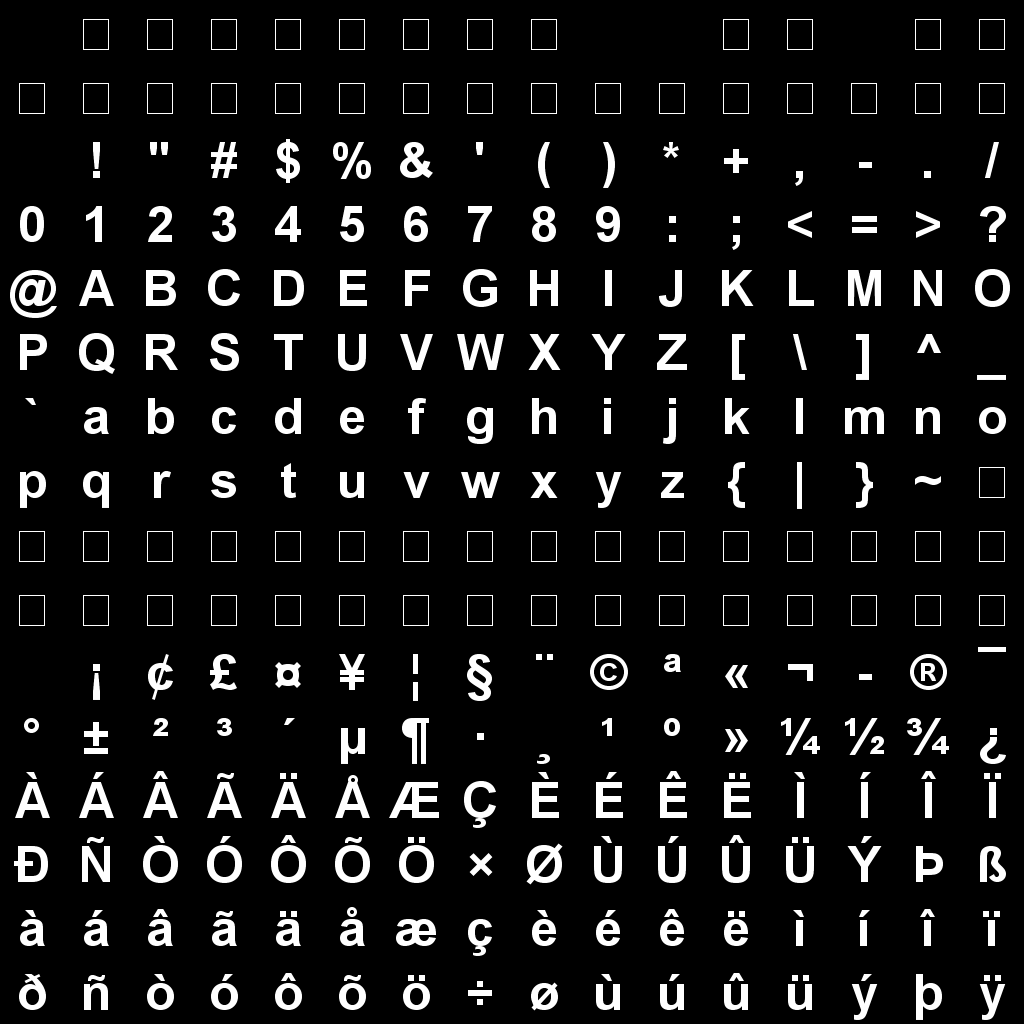
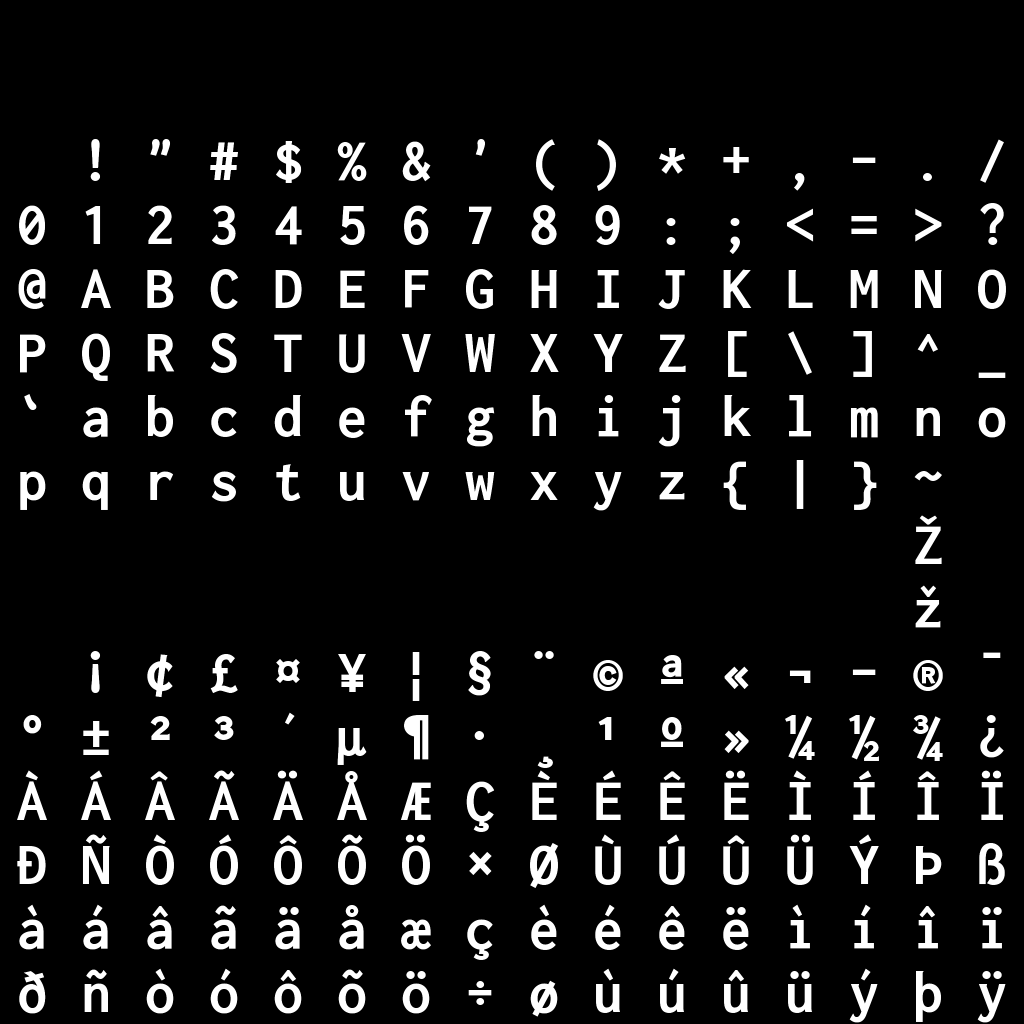
Font quality improvements.

diff --git a/src/edu/ncsu/feddgame/GameInstance.java b/src/edu/ncsu/feddgame/GameInstance.java
@@ -147,11 +147,11 @@ public class GameInstance {
 				} else if (state.equals(State.MAIN_MENU)) {
 					gameState = false;
 					shader.unbind();
-					menuTitle.renderString(menuTitle.getRenderString(), 16, -0.58f, 0.3f, 0.3f, 0.225f);
-					menuItem.renderString("> Start Game", 16, -0.65f, 0f, 0.3f, 0.225f);
-					menuItem.renderString("> How to Play", 16, -0.65f, -0.1f, 0.3f, 0.225f);
-					menuItem.renderString("> Credits", 16, -0.65f, -0.2f, 0.3f, 0.225f);
-					startGame.renderString("(Press Space.)", 16, -0.72f, -0.45f, 0.3f, 0.225f);
+					menuTitle.renderString(menuTitle.getRenderString(), 16, -0.82f, 0.3f, 0.4f);
+					menuItem.renderString("> Start Game", 16, -0.64f, 0.1f, 0.3f);
+					menuItem.renderString("> How to Play", 16, -0.64f, 0.02f, 0.3f);
+					menuItem.renderString("> Credits", 16, -0.64f, -0.06f, 0.3f);
+					startGame.renderString("(Press Space.)", 16, -0.72f, -0.45f, 0.3f);
 				}
 				
 				window.swapBuffers(); // Swap the render buffers

diff --git a/src/edu/ncsu/feddgame/render/Font.java b/src/edu/ncsu/feddgame/render/Font.java
@@ -76,7 +76,9 @@ public class Font {
     }
 	
 	public void renderString(String string, int gridSize, float x, float y,
-            float characterWidth, float characterHeight) {
+            float characterWidth) {
+		float characterHeight = 0.52f * characterWidth; // Automatically calculate the height from aspect ratio
+		
 		glPushAttrib(GL_TEXTURE_BIT | GL_ENABLE_BIT | GL_COLOR_BUFFER_BIT);
 		glEnable(GL_CULL_FACE);
 		glEnable(GL_TEXTURE_2D);
